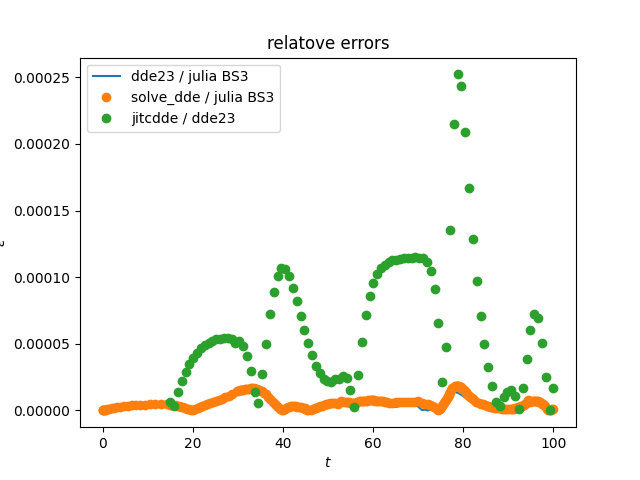
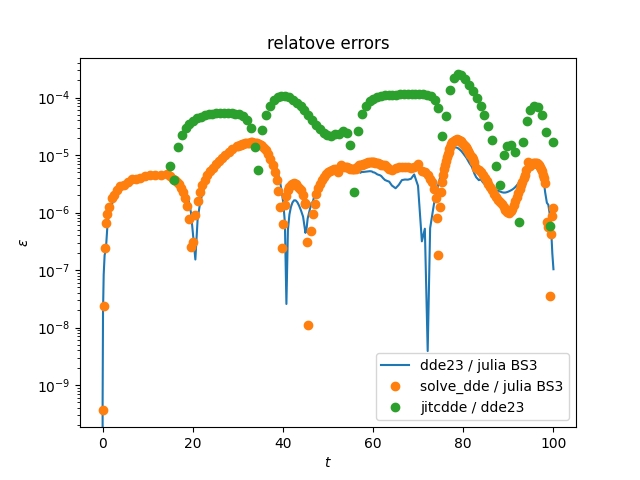
clean up and improvment of docstring and DDEs_models_test

diff --git a/DDEs_models_test/divergingJumpsDDE.py b/DDEs_models_test/divergingJumpsDDE.py
@@ -82,7 +82,7 @@ plt.plot(t_mat, y_mat, 'o', label='matlab y(t)')
 plt.xlabel(r'$t$')
 plt.xlabel(r'$y$')
 plt.legend()
-plt.savefig('figures/solDiv/y_jumps')
+plt.savefig('figures/solDiv/jumps_y')
 
 plt.figure()
 plt.plot(times, err_jit,'-o',label='err mat jit')
@@ -91,7 +91,7 @@ plt.yscale('log')
 plt.legend()
 plt.ylabel(r'$err$')
 plt.xlabel(r'$t$')
-plt.savefig('figures/solConv/err')
+plt.savefig('figures/solDiv/jumps_err')
 
 plt.figure()
 plt.plot(t[:-1],np.diff(t),'-o',label='dt scipy-dev')
@@ -101,7 +101,7 @@ plt.yscale('log')
 plt.legend()
 plt.ylabel(r'$\Delta t$')
 plt.xlabel(r'$t$')
-plt.savefig('figures/solConv/dt')
+plt.savefig('figures/solDiv/jumps_dt')
 plt.show()
 
 

diff --git a/DDEs_models_test/mackeyGlass.py b/DDEs_models_test/mackeyGlass.py
@@ -114,6 +114,7 @@ plt.figure()
 plt.plot(t_ju, err_mat_ju, label='dde23 / julia BS3')
 plt.plot(t_ju, err_dev_ju, 'o', label='solve_dde / julia BS3')
 plt.plot(t_j, err_mat_jit, 'o', label='jitcdde / dde23')
+plt.yscale('log')
 plt.legend()
 plt.xlabel(r'$t$')
 plt.ylabel(r'$\varepsilon$')
@@ -125,6 +126,7 @@ plt.plot(t[:-1],np.diff(t),'-o',label='solve_dde')
 plt.plot(t_mat[:-1],np.diff(t_mat),'-o',label='matlab dde23')
 plt.plot(t_ju[:-1],np.diff(t_ju),'-o',label='julia DDE BS3')
 plt.plot(t_j,dt_j,'-o',label='jitcdde')
+plt.yscale('log')
 plt.legend()
 plt.xlabel(r'$t$')
 plt.ylabel(r'$\Delta t$')

diff --git a/DDEs_models_test/suitcase.py b/DDEs_models_test/suitcase.py
@@ -107,6 +107,7 @@ plt.savefig('figures/suitecase/phase_diag')
 plt.figure()
 plt.plot(t[:-1],np.diff(t),'-o',label='dt scipy-dev')
 plt.plot(t_mat[:-1],np.diff(t_mat),'-o',label='dt matlab solver')
+plt.yscale('log')
 plt.legend()
 plt.ylabel(r'$\Delta t$')
 plt.xlabel(r'$t$')

diff --git a/README.md b/README.md
@@ -47,252 +47,98 @@ https://www.radford.edu/~thompson/webddes/ddeevtwhite.html
 All presented benchmarks are in the folder *DDEs_models_test/*
 ### converging problem
 
-$$y'(t) = -y(t-1)$$
+y'(t) = -y(t-1)
 
-$$y(t)=y_0 \quad \text{for} t\leq t_0$$
+y(t)=y_0 for t<= t_0
 
-```py
-import scipy
-from scipy.integrate._dde.dde import solve_dde
-import numpy as np
+script is in DDEs_models_test/convergingDDE.py
 
-def fun(t,y,Z):
-    y_tau = Z[:,0]
-    return [ - y_tau ]
-
-tau = 1
-y0 = [1.]
-t0 = 0.0
-tf = 6.0
-atol = 1e-10
-rtol = 1e-5
-tspan = [t0, tf]
-delays = [tau]
-def h(t):
-    return [1]
-sol = solve_dde(fun, tspan, delays, y0, h, method='RK23', atol=atol, rtol=rtol)
-t = sol.t
-y = sol.y[0,:]
-yp = sol.yp[0,:]
-plt.figure(figsize=(18,14))
-plt.plot(t, y, label='scipy-dev y(t)')
-plt.legend()
-```
 
 ![](DDEs_models_test/figures/solConv/error.png)
 ![](DDEs_models_test/figures/solConv/y.png)
 ![](DDEs_models_test/figures/solConv/dt.png)
 
+### converging problem, influence on numbers of tracking discontinuities stages
 
-### diverging problem
+script are in DDEs_models_test/convergingDDE_trackingRK23.py and DDEs_models_test/convergingDDE_trackingRK45.py
+
+
+
+![](DDEs_models_test/figures/solConv/RK23error_trackingDiscontStages_t.png)
+![](DDEs_models_test/figures/solConv/RK23error_trackingDiscontStages_t10.png)
+![](DDEs_models_test/figures/solConv/RK45error_trackingDiscontStages_t.png)
+![](DDEs_models_test/figures/solConv/RK45error_trackingDiscontStages_t10.png)
+
+### diverging problem, or so-called quadrature problem
 same as converging problem but with +
 
 y'(t) = y(t-1) \
-y(t0)=y_0 \
-y(t<t0) = y_0 \
+y(t<=t0)=y_0
 
+
+script is in DDEs_models_test/divergingDDE.py
 
 ![](DDEs_models_test/figures/solDiv/error.png)
 ![](DDEs_models_test/figures/solDiv/y.png)
 ![](DDEs_models_test/figures/solDiv/dt.png)
 
+### diverging problem with discontinuities in history
+same as converging problem but with +
+
+y'(t) = y(t-1) \
+y(t<=t0)= (-1)^(floor(-5t))
+
+script is in DDEs_models_test/divergingJumpsDDE.py
+
+![](DDEs_models_test/figures/solDiv/jumps_err.png)
+![](DDEs_models_test/figures/solDiv/jumps_y.png)
+![](DDEs_models_test/figures/solDiv/jumps_dt.png)
+
 ### 2 delays 
 
 y'(t) = -y(t-1/3) - y(t-3/2)\
-y(t0)=y_0 \
-y(t<t0) = y_0 \
+y(t<=t0)=y_0 \
+
+script is in DDEs_models_test/2delays.py
+
 ![](DDEs_models_test/figures/2delays/error.png)
 ![](DDEs_models_test/figures/2delays/y.png)
 ![](DDEs_models_test/figures/2delays/dt.png)
 
+### 2 delays  + init discontinuity
+
+y'(t) = -y(t-1/3) - y(t-3/2)\
+y(t0) = y0 \
+y(t<t0)=h \
+
+script is in DDEs_models_test/2delays_discont.py
+
+![](DDEs_models_test/figures/2delaysdiscont/error.png)
+![](DDEs_models_test/figures/2delaysdiscont/y.png)
+![](DDEs_models_test/figures/2delaysdiscont/phase.png)
+![](DDEs_models_test/figures/2delaysdiscont/dt.png)
+
 
 ### rocking suitcase model
 
-```py
-t0 = 0.0
-tf = 12
-tspan = [t0, tf]
-tau = .1
-gamma = 0.248
-beta  = 1
-A = 0.75
-omega = 1.37
-eta = np.arcsin(gamma/A);
-y0 = [0.0, 0.0]
-atol = 1e-10
-rtol = 1e-5
-delays = [tau]
-def fun(t,y,Z):
-    y_tau = Z[:,0]
-    return [y[1],
-            np.sin(y[0]) - np.sign(y[0]) * gamma * np.cos(y[0]) - beta * y_tau[0]
-            + A * np.sin(omega * t + eta)]
-def finalEvent(t,y,Z):
-    return np.abs(y[0])-np.pi*.5
-finalEvent.direction = 0 # % All events have to be reported
-finalEvent.terminal = True
-def hitGround(t,y,Z):
-    return y[0]
-hitGround.direction = 0 # % All events have to be reported
-hitGround.terminal = True
-events = [finalEvent, hitGround]
-sol23 = solve_dde(fun, tspan, delays, y0, y0, method='RK23',atol=atol, rtol=rtol ,events=events)
-print("\nKind of Event:               scipy-dev         dde23       reference ")
-# ref values of matlab dde23 example script
-ref = [4.516757065, 9.751053145, 11.670393497]
-# computed values from matlab dde23 with same atol & rtol
-mat = [4.5167708185, 9.7511043904, 11.6703836720]
-# from DDE_SOLVER  fortran routine example : Example 4.4.5 Events and Change Routine
-f90 = [4.5167570861630821, 9.7510847727976273, 11.670385883524640]
-
-e = 0
-while(sol23.t[-1]<tf):
-    if not (sol23.t_events[0]): # if there is not finalEvent
-        print('A wheel hit the ground. ',sol23.t[-1],'',mat[e],'',ref[e])
-        t_val = np.array([sol23.t[-1],mat[e],ref[e],f90[e]])
-        print('relative error to ref   ', np.abs(t_val-ref[e])/ref[e])
-        y0 = [0.0, sol23.y[1,-1]*0.913]
-        tspan = [sol23.t[-1],tf]
-        sol23 = solve_dde(fun, tspan, delays, y0, sol23, method='RK23',
-                  atol=atol, rtol=rtol ,events=events)
-        e += 1
-    else:
-        print("The suitcase fell over. ",sol23.t[-1],'',mat[e],'',ref[e])
-        t_val = np.array([sol23.t[-1],mat[e],ref[e],f90[e]])
-        print('relative error to ref   ', np.abs(t_val-ref[e])/ref[e])
-        break
-t = sol23.t
-y = sol23.y[0,:]
-yp = sol23.y[1,:]
-```
-
-
-```py
-plt.figure(figsize=(18,14))
-plt.plot(t, y,'o', label='scipy-dev y(0)(t)')
-plt.legend()
-plt.figure(figsize=(18,14))
-plt.plot(y, yp, label='phase diagram')
-plt.legend()
-
-```
-Kind of Event:               solve_dde        dde23       reference    DDE_SOLVER
-A wheel hit the ground.  4.516781485071807  4.5167708185  4.516757065  4.516757086163082
-
-relative error to ref    5.41e-06             3.04e-06     0.00e+00       4.69e-09
-
-A wheel hit the ground.  9.751112512473107  9.7511043904  9.751053145  9.751084772797627
-
-relative error to ref    6.09e-06              5.26e-06     0.00e+00      3.24e-06
-
-The suitcase fell over.  11.67038054236842  11.670383672  11.670393497  11.67038588352464
-
-relative error to ref    1.11e-06             8.42e-07        0.00e+00      6.52e-07
-
+script is in DDEs_models_test/suitcase.py
 
 ![](DDEs_models_test/figures/suitecase/phase_diag.png)
+![](DDEs_models_test/figures/suitecase/dt.png)
 ![](DDEs_models_test/figures/suitecase/t_y_yp.png)
 
 ### Kermack-McKendrick an infectious disease model
 
-```py
-from scipy.integrate import solve_dde
-import matplotlib.pyplot as plt      
-import numpy as np                   
 
-def fun(t,y,Z):
-    y_tau1 = Z[:,0]
-    y_tau10 = Z[:,1]
-    return [-y[0] * y_tau1[1]  + y_tau10[1],
-            y[0] * y_tau1[1] -  y[1],
-            y[1] - y_tau10[1]]
-
-def zero_y0(t,y,Z):
-    y_tau1 = Z[:,0]
-    y_tau10 = Z[:,1]
-    return -y[0] * y_tau1[1]  + y_tau10[1]
-zero_y0.direction = -1
-zero_y0.terminal = False
-
-def zero_y1(t,y,Z):
-    y_tau1 = Z[:,0]
-    return y[0] * y_tau1[1] -  y[1]
-zero_y1.direction = -1
-zero_y1.terminal = False
-
-def zero_y2(t,y,Z):
-    y_tau10 = Z[:,1]
-    return y[1] - y_tau10[1]
-zero_y2.direction = -1
-zero_y2.terminal = False
-t0 = 0.0
-tf = 40
-tau1 = 1.
-tau10 = 10.
-gamma = 0.248;
-beta  = 1;
-A = 0.75;
-omega = 1.37;
-eta = np.arcsin(gamma/A);
-y0 = np.array([5.,.1,1.0])
-delays = [tau1,tau10]
-tspan = [t0, tf]
-zeros = [zero_y0,zero_y1,zero_y2]
-atol = 1e-10
-rtol = 1e-5
-sol23 = solve_dde(fun, tspan, delays, y0, y0, method='RK23', events=zeros, atol=atol, rtol=rtol)
-
-t = sol23.t                                                              
-y0 = sol23.y[0,:]                                                        
-y1 = sol23.y[1,:]                                                        
-y2 = sol23.y[2,:]                                                        
-                                                                         
-y0_e = sol23.y_events[0][:,0]                                            
-y1_e = sol23.y_events[1][:,1]                                            
-y2_e = sol23.y_events[2][:,2]                                            
-                                                                         
-import scipy.io as spio                                                  
-path_mat = 'data_dde23/virusEvents.mat'                                  
-mat = spio.loadmat(path_mat, squeeze_me=True)                            
-t0_e_mat = mat['x1']                                                     
-t1_e_mat = mat['x2']                                                     
-t2_e_mat = mat['x3']                                                     
-                                                                         
-te_mat = [t0_e_mat, t1_e_mat, t2_e_mat]                                  
-                                                                         
-for i in range(len(sol23.t_events)):                                     
-    err = np.abs((sol23.t_events[i] - te_mat[i]) / te_mat[i])            
-    print('     t_event y%s :' % (i))                                    
-    print("         solver_dde method='RK23' = %s" % (sol23.t_events[i]))
-    print('         Matlab dde23 =             %s' % (sol23.t_events[i]))
-  print('         relative error =           %s ' % (err))               
-
-```
-     t_event y0 :
-         solver_dde method='RK23' = [15.68805593 31.01201453]
-         Matlab dde23 =             [15.68805593 31.01201453]
-         relative error =           [8.95347197e-06 1.62520340e-05] 
-     t_event y1 :
-         solver_dde method='RK23' = [ 3.59025533 18.49136555 34.1969848 ]
-         Matlab dde23 =             [ 3.59025533 18.49136555 34.1969848 ]
-         relative error =           [7.87418187e-06 1.41287527e-05 2.22760967e-05] 
-     t_event y2 :
-         solver_dde method='RK23' = [ 8.22797114 23.48149022 39.26973689]
-         Matlab dde23 =             [ 8.22797114 23.48149022 39.26973689]
-         relative error =           [1.57069176e-05 5.47151701e-06 1.53232619e-05] 
+script is in DDEs_models_test/KermackMcKendrick.py
 
 
-
-![](DDEs_models_test/figures/virus/virus.png)
-
+![](DDEs_models_test/figures/KermackMcKendrick/y.png)
 
 
-### Mackey Glass
+### Mackey-Glass
 
-```py
-
-```
-
+script is in DDEs_models_test/mackeyGlass.py
 
 ![](DDEs_models_test/figures/mackeyGlass/y.png)
 ![](DDEs_models_test/figures/mackeyGlass/error.png)
